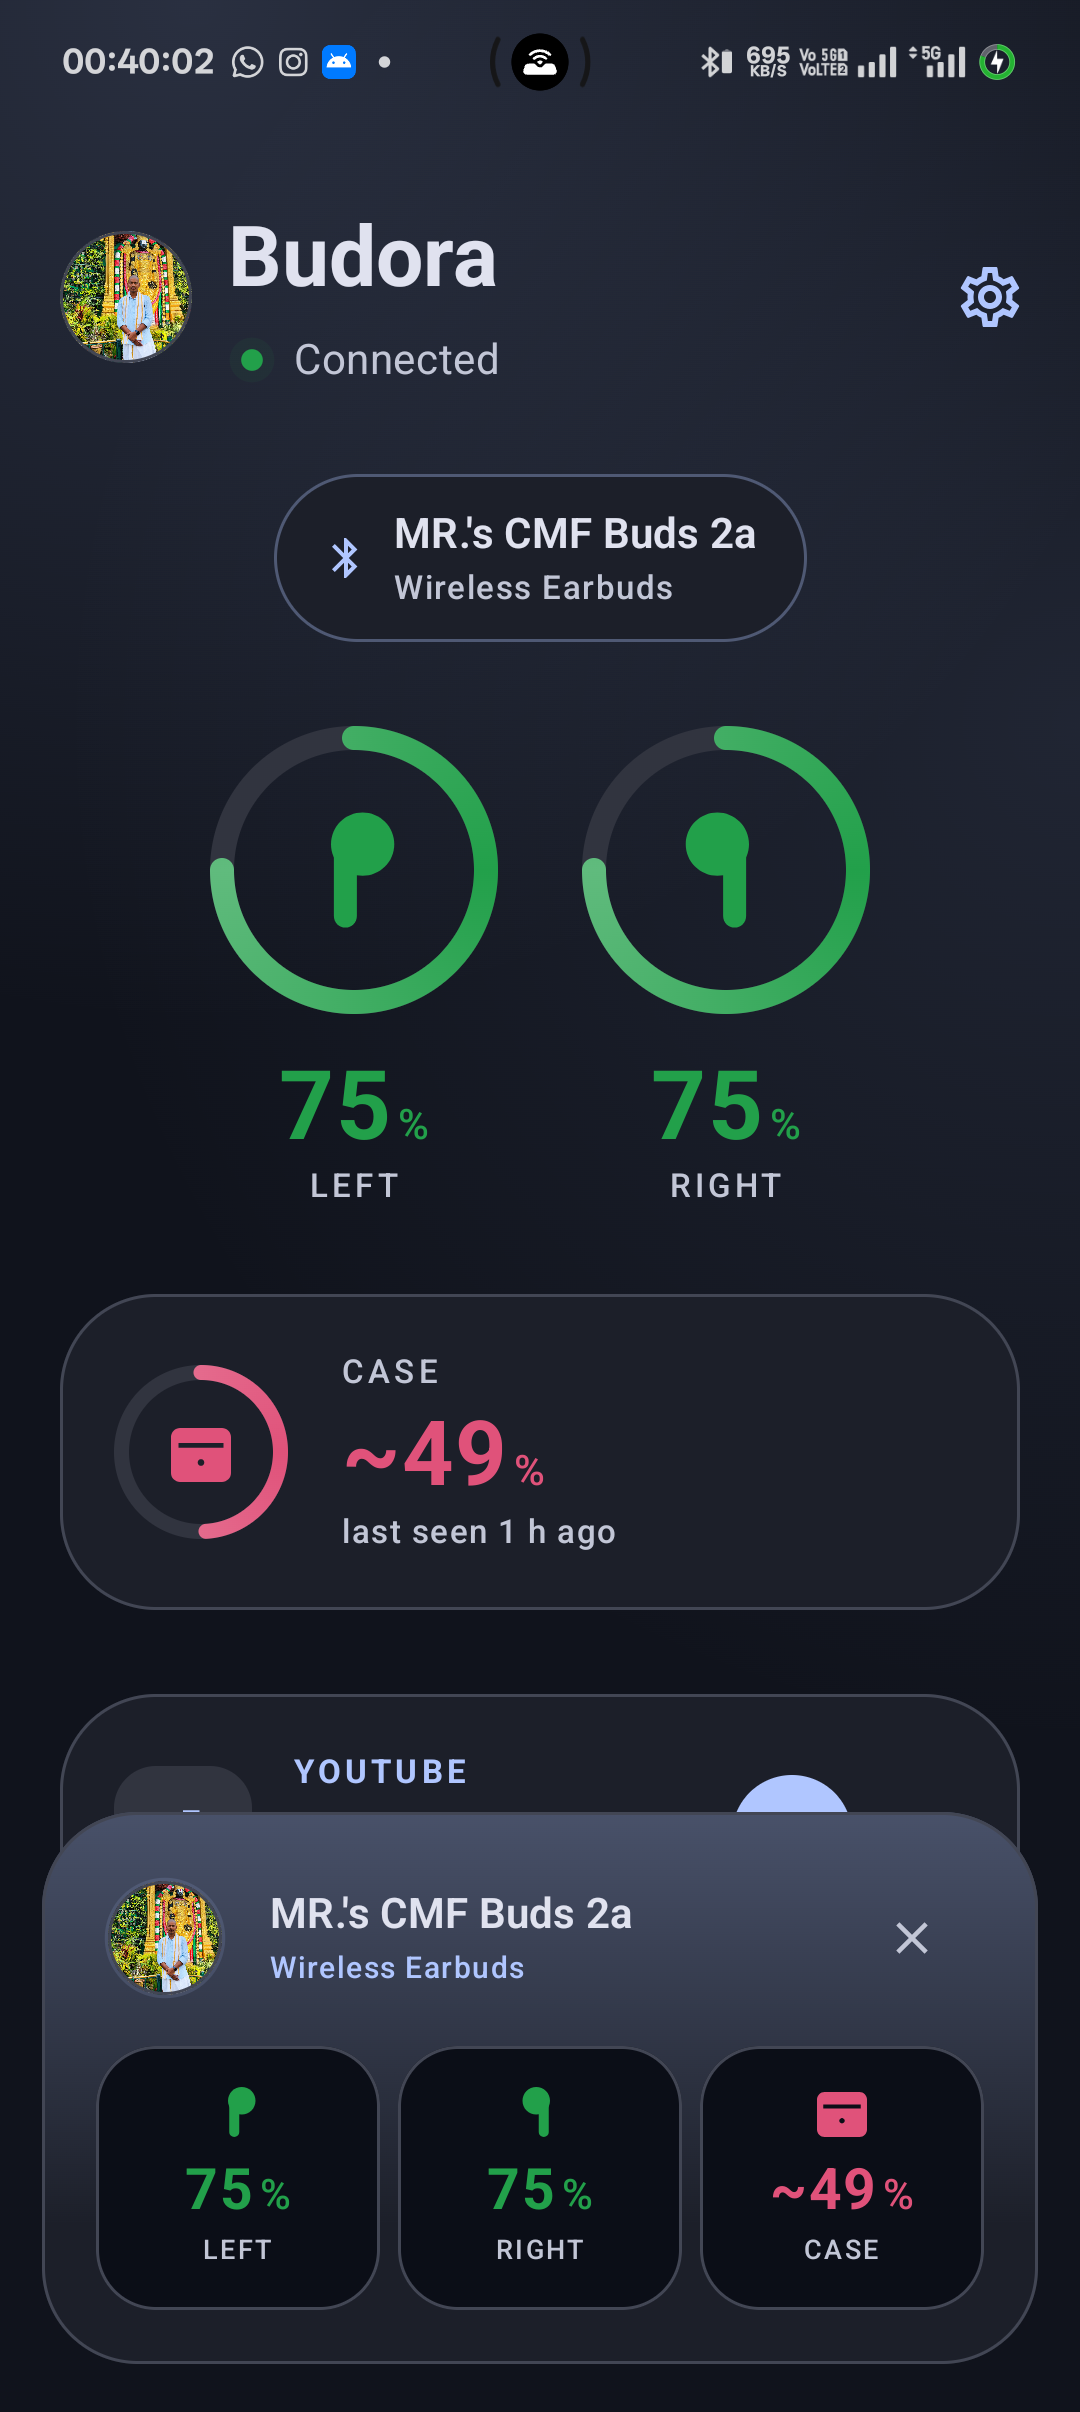
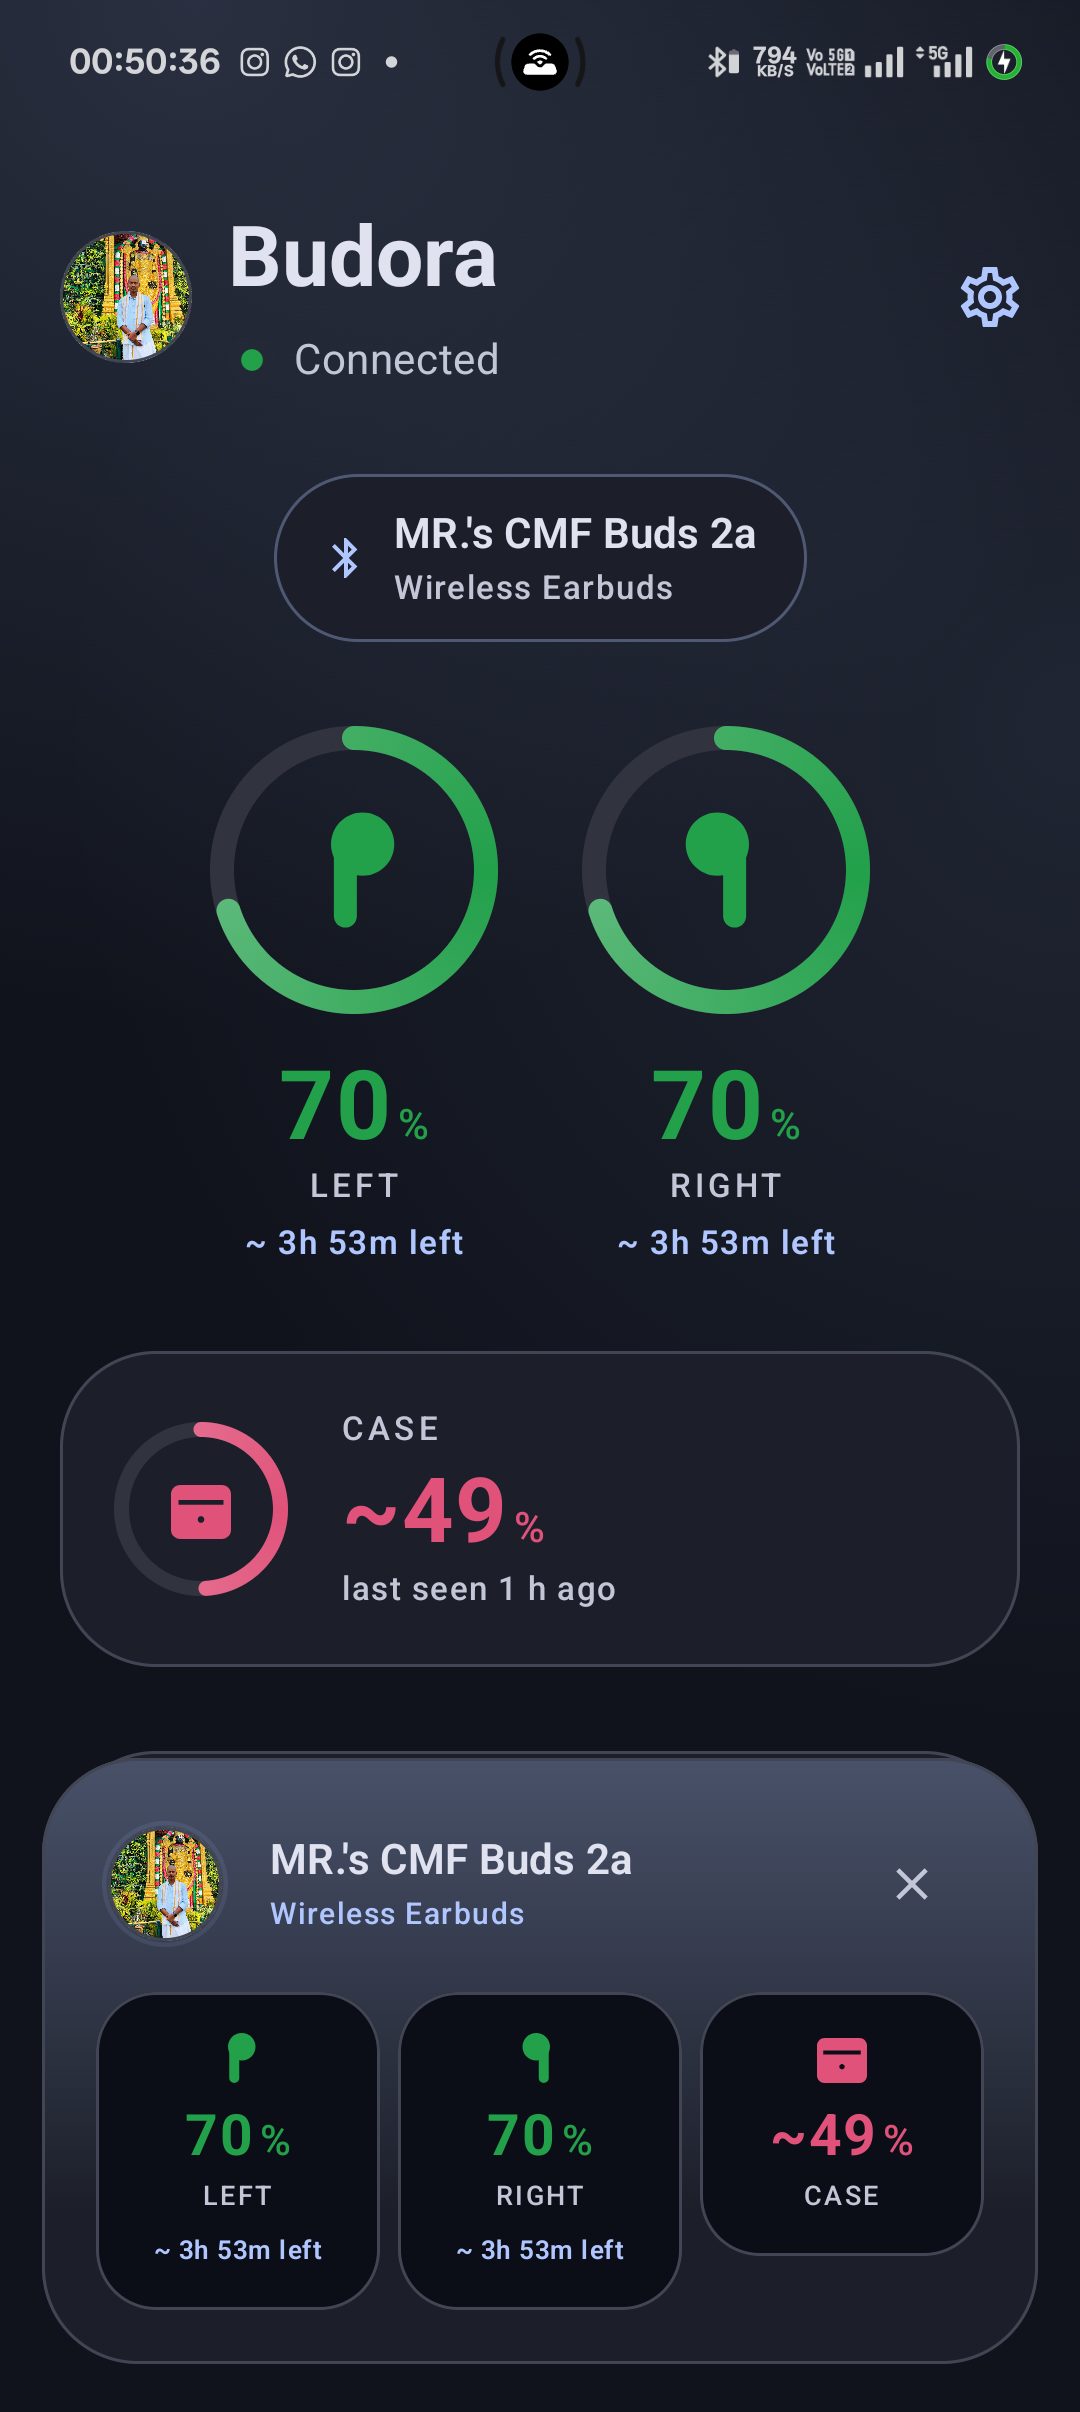
feat(android): wire up battery prediction in BudoraService and add live verified screenshot

diff --git a/app/src/main/java/com/budora/service/BudoraService.kt b/app/src/main/java/com/budora/service/BudoraService.kt
@@ -607,10 +607,14 @@ class BudoraService : Service() {
         if (level !in 0..100) return
         val current = latestState
         val caseLevel = current?.caseBattery ?: latestCase?.level ?: caseMemory.last?.level
+        val timePred = tracker.predict("classic_bt_audio", level, false)
         val updated = current?.copy(
             leftBattery = level,
             rightBattery = level,
-            caseBattery = caseLevel
+            caseBattery = caseLevel,
+            leftTimeRemaining = timePred,
+            rightTimeRemaining = timePred,
+            singleTimeRemaining = timePred,
         ) ?: BudoraState(
             model = BudoraModel.GENERIC_BLUETOOTH,
             leftBattery = level,
@@ -623,6 +627,9 @@ class BudoraService : Service() {
             lidOpenCounter = 0,
             rawLeftInEar = false,
             rawRightInEar = false,
+            leftTimeRemaining = timePred,
+            rightTimeRemaining = timePred,
+            singleTimeRemaining = timePred,
         )
         latestState = updated
         val lastCase = latestCase ?: caseMemory.last
@@ -675,10 +682,17 @@ class BudoraService : Service() {
             (latestState?.rightBattery == null && latestState?.leftBattery != null)
         )
 
+        val leftBat = if (isSingle) mainBattery else (latestState?.leftBattery ?: mainBattery)
+        val rightBat = if (isSingle) null else (latestState?.rightBattery ?: mainBattery)
+
+        val leftTime = tracker.predict("${device.address}_L", leftBat, isLeftChg)
+        val rightTime = if (rightBat != null) tracker.predict("${device.address}_R", rightBat, isRightChg) else null
+        val singleTime = if (isSingle) tracker.predict("${device.address}_S", mainBattery, isLeftChg) else null
+
         return BudoraState(
             model = latestState?.model ?: BudoraModel.GENERIC_BLUETOOTH,
-            leftBattery = if (isSingle) mainBattery else (latestState?.leftBattery ?: mainBattery),
-            rightBattery = if (isSingle) null else (latestState?.rightBattery ?: mainBattery),
+            leftBattery = leftBat,
+            rightBattery = rightBat,
             caseBattery = if (isSingle) null else liveCase,
             isLeftCharging = isLeftChg,
             isRightCharging = isRightChg,
@@ -690,6 +704,9 @@ class BudoraService : Service() {
             isSingleDevice = isSingle,
             isLeftInCase = leftInCase,
             isRightInCase = rightInCase,
+            leftTimeRemaining = leftTime,
+            rightTimeRemaining = rightTime,
+            singleTimeRemaining = singleTime,
         )
     }
 
